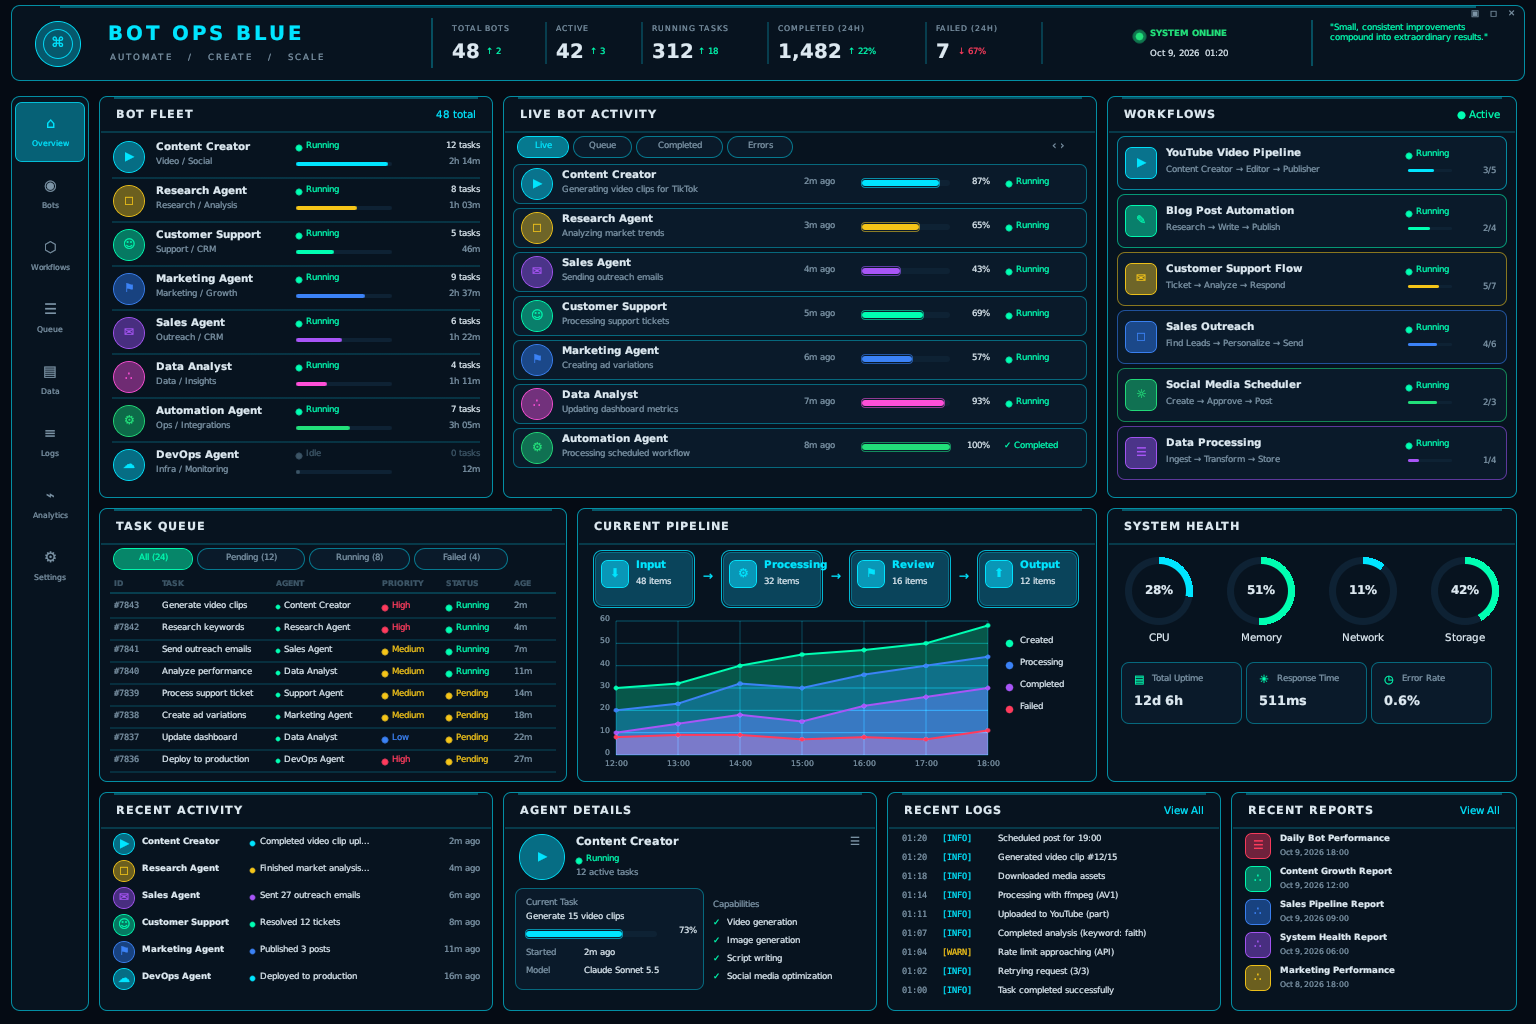
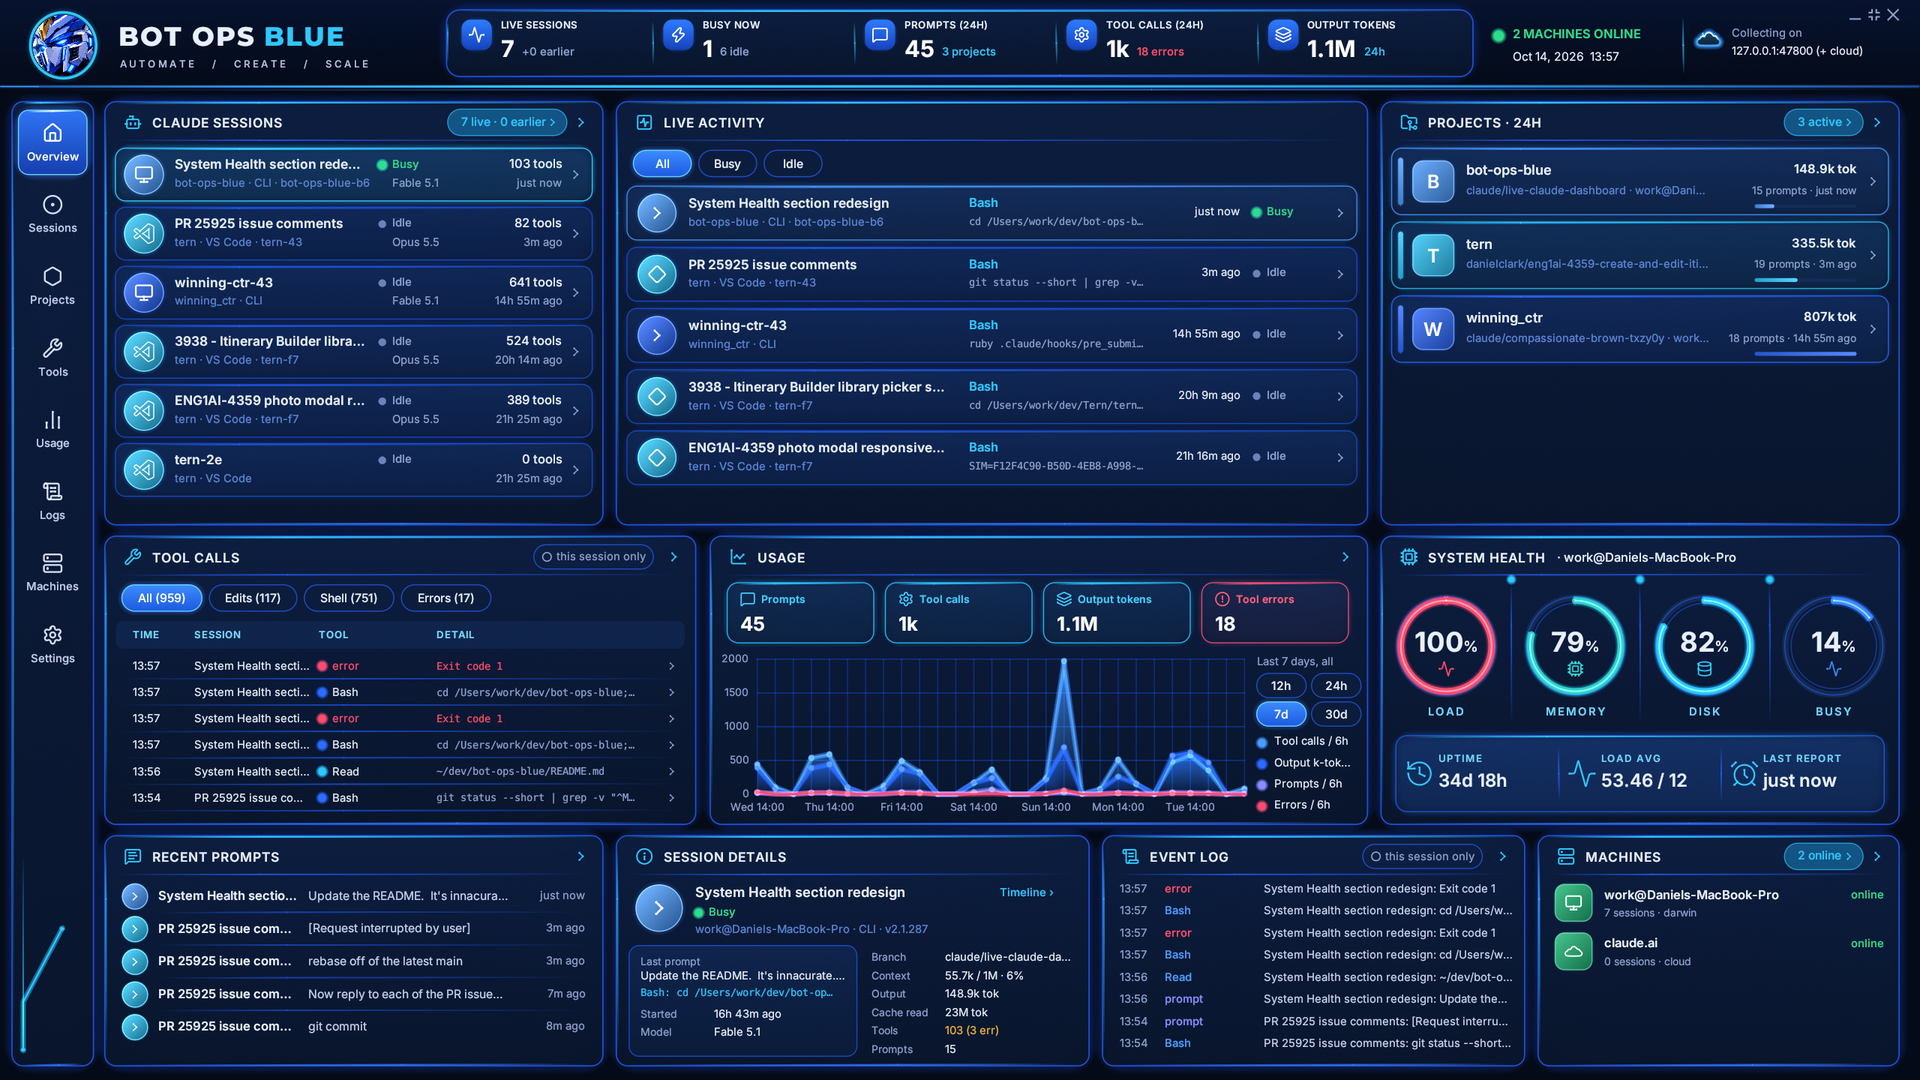
Replace the Shoes-era preview and the last Shoes references
assets/preview.png was the mock bot-fleet dashboard from the Shoes version,
not this app. It is now the window's own snapshot, fullscreen on a
2560x1440 monitor, scaled to 1920x1080. The README's protocol section
shows Native.run's real signature (it takes the window position), and two
comments in comms.rb and theme.rb that still described Shoes now describe
the egui host.

diff --git a/lib/bot_ops/comms.rb b/lib/bot_ops/comms.rb
@@ -4,11 +4,11 @@ require "thread"
 
 module BotOps
   module Comms
-    # Base class for anything that feeds events into the hub.
+    # Base class for anything that feeds events into the dashboard.
     #
-    # Shoes (like most GUI toolkits) wants all drawing on its main thread, so
-    # channels never touch the store themselves. They enqueue event hashes and
-    # the hub drains them with #poll from a Shoes timer.
+    # The window and the store live on the main thread, so channels never
+    # touch the store themselves. They enqueue event hashes and the host
+    # drains them from its refresh tick.
     #
     # To add real comms later, subclass Channel, start a background thread (or
     # socket reader) in #start, and call #push(event) for each message:

diff --git a/lib/bot_ops/theme.rb b/lib/bot_ops/theme.rb
@@ -1,8 +1,8 @@
 # frozen_string_literal: true
 
 module BotOps
-  # Colour palette and typography for the hub. Hex strings are accepted
-  # directly by Shoes 3 for stroke/fill; use Theme.rgba for translucent colours.
+  # Colour palette and typography. Colours are "#RRGGBB" hex strings; use
+  # Theme.rgba for translucent ones.
   module Theme
     # Accents are sampled from assets/bot-blue.png (the logo): the royal
     # armour blues, the glowing cyan eyes, ice-white plating and the gold

diff --git a/README.md b/README.md
@@ -10,6 +10,9 @@ plus a sidebar that switches between full-size pages for each area.
 
 Nothing on screen is simulated. Panels with no data show an empty state.
 
+The window itself, fullscreen on a 2560x1440 monitor (its own snapshot, see
+`BOT_OPS_SNAPSHOT_DIR` below):
+
 ![Bot Ops Blue running](assets/preview.png)
 
 ## Setup
@@ -211,7 +214,7 @@ repaints cost nothing on the Ruby side.
 
 ### The Ruby <-> Rust protocol
 
-`BotOps::Native.run(host, width, height, title)` blocks until the window
+`BotOps::Native.run(host, width, height, title, position)` blocks until the window
 closes. While it runs, Rust calls two methods on `host`:
 
 | Call | Returns |
@@ -286,7 +289,7 @@ class SocketChannel < BotOps::Comms::Channel
 end
 ```
 
-Then boot the hub with it in `bot_ops_blue.rb`:
+Then boot the dashboard with it in `bot_ops_blue.rb`:
 
 ```ruby
 channel = BotOps::Comms::Multiplexer.new(SocketChannel.new, BotOps::Comms::ClaudeChannel.new)
